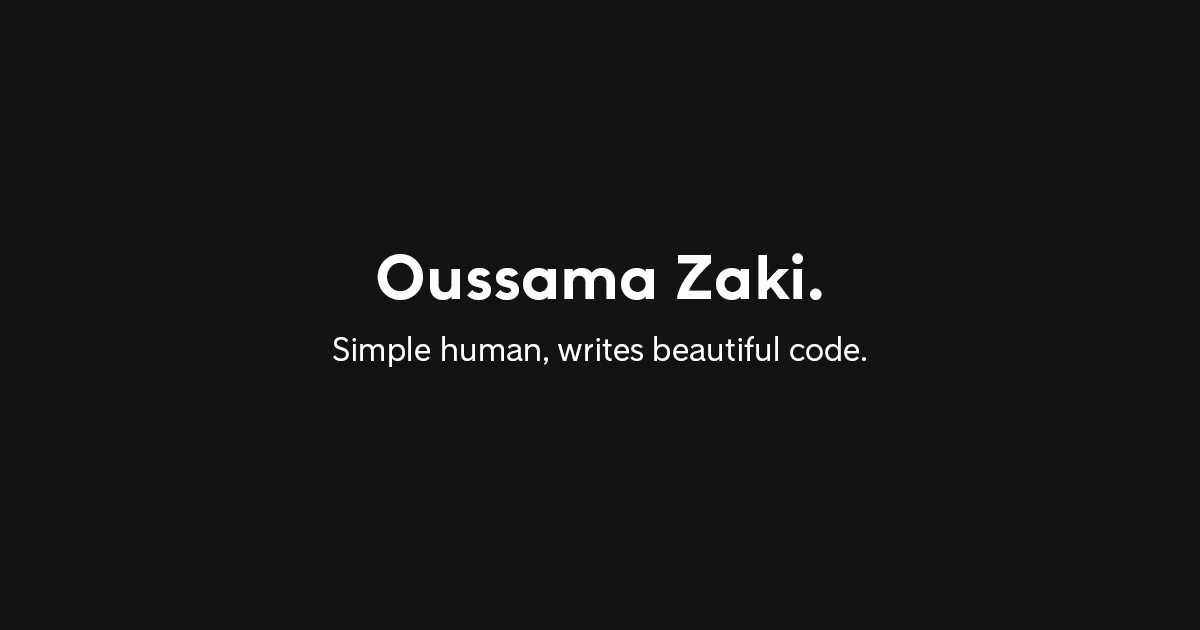
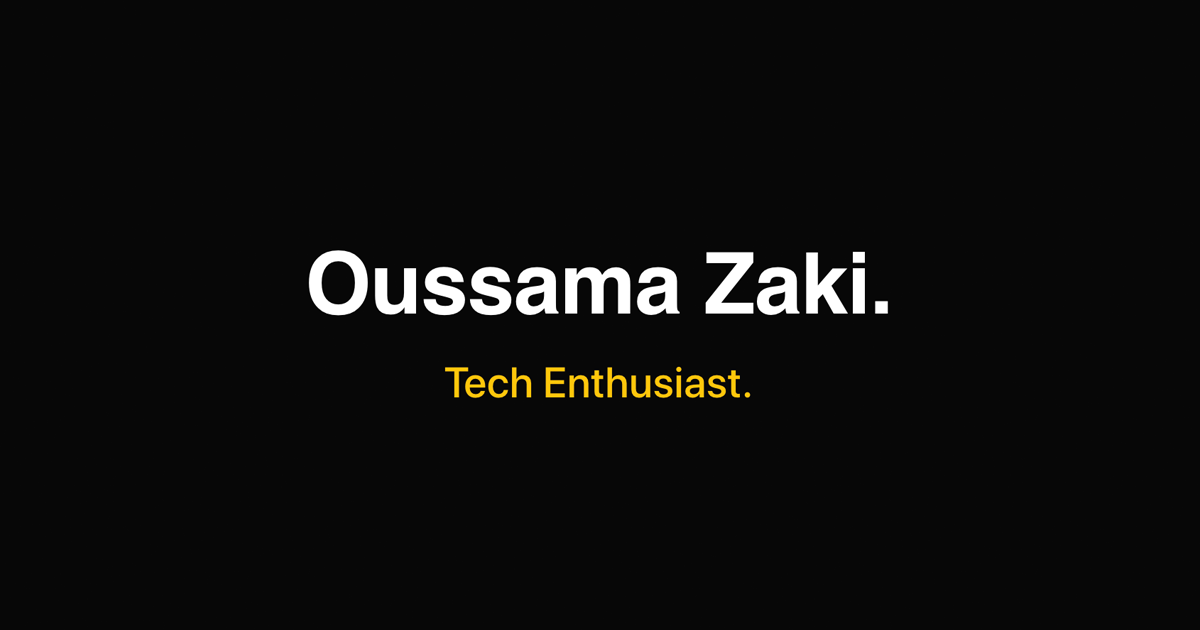
🕸 update SEO and subtitle

Changed region(s): [[0.2467, 0.3921, 0.74, 0.5127], [0.2775, 0.5429, 0.74, 0.6333]]

diff --git a/src/pages/index.js b/src/pages/index.js
@@ -10,11 +10,11 @@ class ProfilePage extends React.Component {
   render() {
     return (
       <div className="profile-container">
-        <SEO title="Oussama Zaki · Writes beautiful code" />
+        <SEO title="Oussama Zaki · Tech Enthusiast" />
         <section id="s1">
           <div className="container">
             <h1 className="center">Oussama Zaki.</h1>
-            <h2 className="center">Director of Engineering. Tech advisor.</h2>
+            <h2 className="center yellow">Tech Enthusiast.</h2>
           </div>
         </section>
 

diff --git a/gatsby-config.js b/gatsby-config.js
@@ -1,9 +1,9 @@
 module.exports = {
   siteMetadata: {
-    title: `Oussama Zaki's Personal Webpage`,
+    title: `Oussama Zaki - Tech Enthusiast`,
     author: `Oussama Zaki`,
-    description: `Personal Webpage & Blog.`,
-    siteUrl: `https:/oussa.io/`,
+    description: `Oussama Zaki Personal Webpage & Blog.`,
+    siteUrl: `https:/oussa.dev`,
   },
   plugins: [
     {
